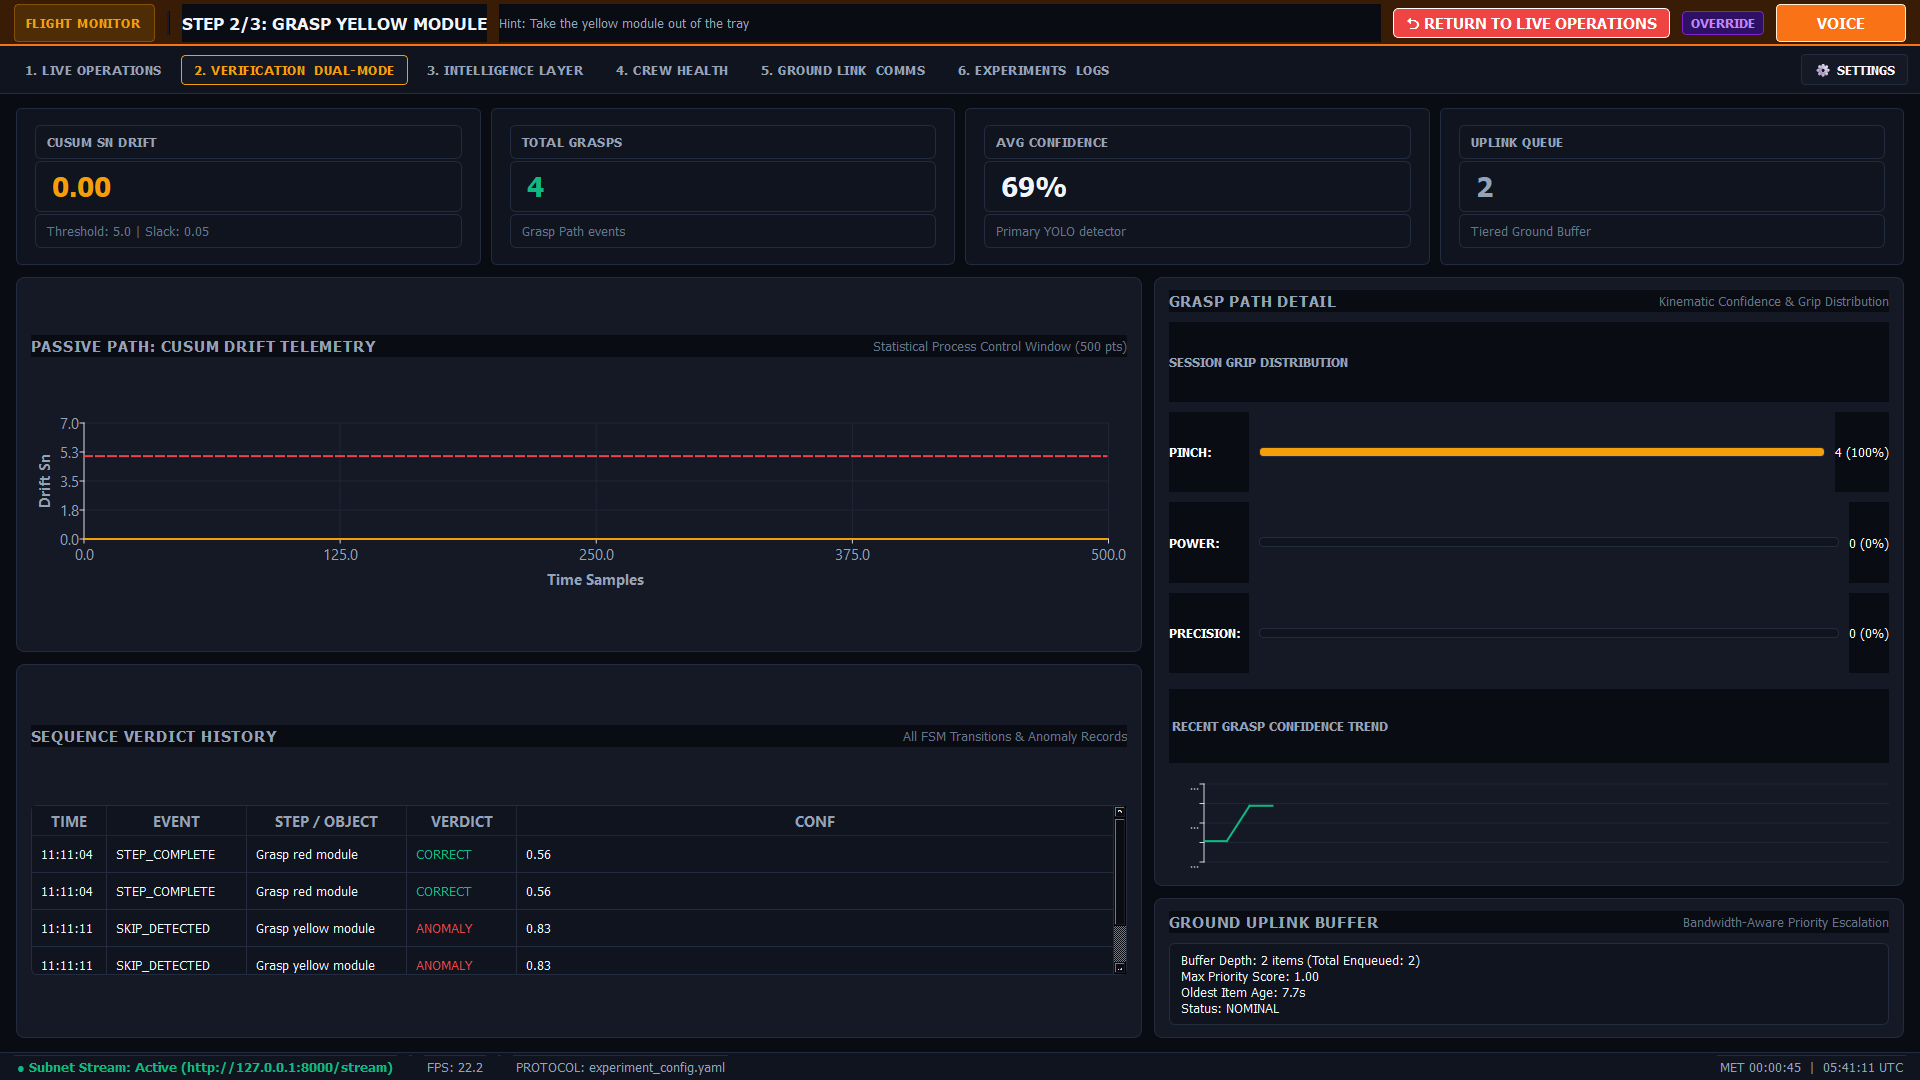
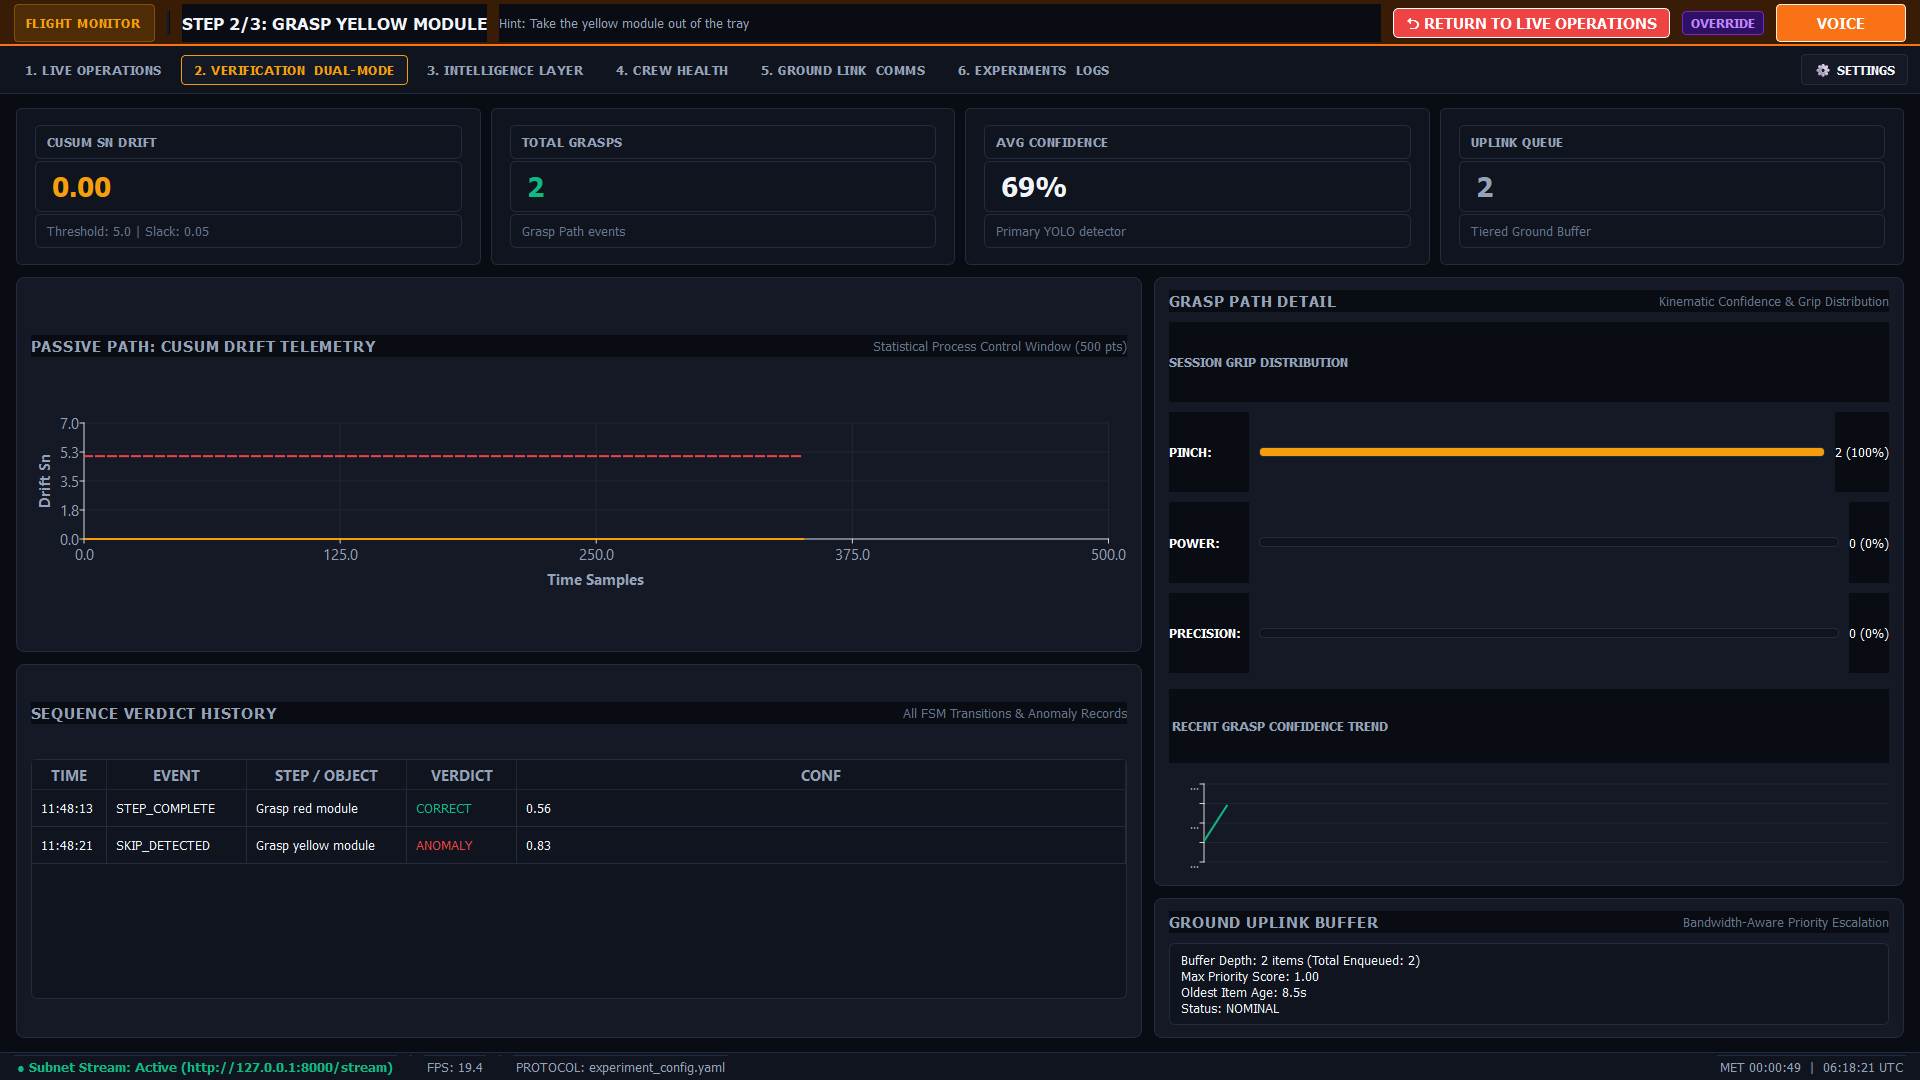
fix(gui): eliminate duplicate signal dispatch across pages and retake verification evidence

diff --git a/tests/test_gui_signal_wiring.py b/tests/test_gui_signal_wiring.py
@@ -1,0 +1,263 @@
+"""
+tests/test_gui_signal_wiring.py
+Regression tests ensuring single-path signal dispatch across all GUI pages.
+Verifies no signal is handled twice by any page when emitted from the worker.
+"""
+
+import os
+import sys
+import numpy as np
+import pytest
+from unittest.mock import MagicMock
+from datetime import datetime
+
+sys.path.insert(0, os.path.abspath(os.path.join(os.path.dirname(__file__), "..", "har_system")))
+
+from PySide6.QtCore import QObject, Signal
+from PySide6.QtWidgets import QApplication
+
+from fsm.experiment_fsm import FSMEvent, FSMEventType, FSMStatus
+from perception.grasp_detector import GraspEvent
+from gui.main_window import MainWindow
+
+
+class MockWorker(QObject):
+    frame_ready = Signal(np.ndarray)
+    fsm_event = Signal(object)
+    grasp_detected = Signal(object)
+    release_detected = Signal(object)
+    experiment_complete = Signal(dict)
+    error_occurred = Signal(str)
+    calibration_state_changed = Signal(dict)
+    escalation_changed = Signal(str)
+    passive_monitor_updated = Signal(float, float)
+    intent_predicted = Signal(dict)
+    vitals_updated = Signal(dict)
+    summary_exported = Signal(str)
+    uplink_updated = Signal(dict)
+    system_telemetry_updated = Signal(dict)
+
+    def __init__(self):
+        super().__init__()
+        self.calibration = MagicMock()
+        self.calibration.get_state.return_value = {
+            "status": "calibrated",
+            "ema_pinch": 0.070,
+            "ema_confidence": 0.85,
+            "drift_percent": 0.0,
+        }
+        self.calibration.ema_alpha = 0.05
+        self.calibration.blend_weight = 0.5
+        self.fsm = MagicMock()
+        self.fsm.status = FSMStatus.IN_PROGRESS
+        self.fsm.current_step_index = 0
+        self.fsm.get_current_step_label.return_value = "Step 1: Pick Up Screwdriver"
+        self.fsm.get_current_hint.return_value = "Prepare screws"
+        self.fsm._steps = []
+
+    def request_recalibrate(self): pass
+    def request_test_alert(self): pass
+    def request_override(self): pass
+    def export_summary(self): pass
+    def stop(self): pass
+
+
+@pytest.fixture(scope="module")
+def qapp():
+    os.environ["QT_QPA_PLATFORM"] = "offscreen"
+    app = QApplication.instance()
+    if app is None:
+        app = QApplication(["-platform", "offscreen"])
+    return app
+
+
+def test_verification_page_single_dispatch(qapp):
+    """
+    Requirement 2:
+    Emit one fsm_event, one grasp_detected, and 10 passive_monitor_updated
+    through the real MainWindow wiring.
+    Assert verdict table rows == 1, TOTAL GRASPS == 1, CUSUM history length == 10.
+    Assert no other page handles an event twice.
+    """
+    window = MainWindow(total_steps=5)
+    worker = MockWorker()
+    window.set_worker(worker)
+
+    # Track calls on all page methods
+    calls = {
+        "verif_fsm": 0,
+        "verif_grasp": 0,
+        "verif_cusum": 0,
+        "live_fsm": 0,
+        "live_grasp": 0,
+        "live_cusum": 0,
+        "logs_fsm": 0,
+        "logs_grasp": 0,
+    }
+
+    orig_verif_fsm = window.page_verification.handle_fsm_event
+    def wrap_verif_fsm(ev):
+        calls["verif_fsm"] += 1
+        return orig_verif_fsm(ev)
+    window.page_verification.handle_fsm_event = wrap_verif_fsm
+
+    orig_verif_grasp = window.page_verification.handle_grasp
+    def wrap_verif_grasp(ge):
+        calls["verif_grasp"] += 1
+        return orig_verif_grasp(ge)
+    window.page_verification.handle_grasp = wrap_verif_grasp
+
+    orig_verif_cusum = window.page_verification.update_cusum
+    def wrap_verif_cusum(sn, th):
+        calls["verif_cusum"] += 1
+        return orig_verif_cusum(sn, th)
+    window.page_verification.update_cusum = wrap_verif_cusum
+
+    orig_live_fsm = window.page_live_ops.handle_fsm_event
+    def wrap_live_fsm(ev):
+        calls["live_fsm"] += 1
+        return orig_live_fsm(ev)
+    window.page_live_ops.handle_fsm_event = wrap_live_fsm
+
+    orig_live_grasp = window.page_live_ops.handle_grasp
+    def wrap_live_grasp(ge):
+        calls["live_grasp"] += 1
+        return orig_live_grasp(ge)
+    window.page_live_ops.handle_grasp = wrap_live_grasp
+
+    orig_live_cusum = window.page_live_ops.update_cusum
+    def wrap_live_cusum(sn, th):
+        calls["live_cusum"] += 1
+        return orig_live_cusum(sn, th)
+    window.page_live_ops.update_cusum = wrap_live_cusum
+
+    orig_logs_fsm = window.page_experiments_logs.handle_fsm_event
+    def wrap_logs_fsm(ev):
+        calls["logs_fsm"] += 1
+        return orig_logs_fsm(ev)
+    window.page_experiments_logs.handle_fsm_event = wrap_logs_fsm
+
+    orig_logs_grasp = window.page_experiments_logs.handle_grasp
+    def wrap_logs_grasp(ge):
+        calls["logs_grasp"] += 1
+        return orig_logs_grasp(ge)
+    window.page_experiments_logs.handle_grasp = wrap_logs_grasp
+
+    # 1. Emit 1 fsm_event
+    ev = FSMEvent(
+        type=FSMEventType.STEP_COMPLETE,
+        step_id=1,
+        step_name="Step 1: Pick Up Screwdriver",
+        object_class="screwdriver",
+        confidence=0.92,
+        message="Step 1 completed",
+        timestamp=datetime.now().isoformat(),
+        next_hint="Prepare screws"
+    )
+    worker.fsm_event.emit(ev)
+
+    # 2. Emit 1 grasp_detected
+    ge = GraspEvent(
+        hand_index=0,
+        object_class="screwdriver",
+        object_confidence=0.89,
+        bbox_norm={"x1": 0.1, "y1": 0.1, "x2": 0.2, "y2": 0.2, "cx": 0.15, "cy": 0.15},
+        pinch_center=(0.15, 0.15),
+        frame_count=5,
+        grip_type="pinch",
+        pinch_distance=0.035,
+    )
+    worker.grasp_detected.emit(ge)
+
+    # 3. Emit 10 passive_monitor_updated
+    for i in range(10):
+        worker.passive_monitor_updated.emit(float(i) * 0.1, 5.0)
+
+    # Assertions on page_verification
+    assert window.page_verification.verdict_table.rowCount() == 1, (
+        f"Expected 1 verdict row, got {window.page_verification.verdict_table.rowCount()}"
+    )
+    assert window.page_verification._total_grasps == 1, (
+        f"Expected 1 total grasp, got {window.page_verification._total_grasps}"
+    )
+    assert window.page_verification.grasps_stat_lbl.text() == "1"
+    assert len(window.page_verification._cusum_history) == 10, (
+        f"Expected 10 CUSUM history samples, got {len(window.page_verification._cusum_history)}"
+    )
+
+    # Assert exact call counts on page_verification
+    assert calls["verif_fsm"] == 1
+    assert calls["verif_grasp"] == 1
+    assert calls["verif_cusum"] == 10
+
+    # Assert no other page handles an event twice
+    assert calls["live_fsm"] == 1
+    assert calls["live_grasp"] == 1
+    assert calls["live_cusum"] == 10
+    assert calls["logs_fsm"] == 1
+    assert calls["logs_grasp"] == 1
+
+    # Assert UI container items are not duplicated
+    assert window.page_live_ops.log_tree.topLevelItemCount() == 1
+    assert window.page_experiments_logs.full_log_tree.topLevelItemCount() == 2  # 1 FSM + 1 grasp
+
+    window.close()
+
+
+def test_all_pages_no_duplicate_signal_handling(qapp):
+    """
+    Exhaustively audit every other signal to ensure exactly 1 invocation per target page.
+    """
+    window = MainWindow(total_steps=5)
+    worker = MockWorker()
+    window.set_worker(worker)
+
+    counts = {
+        "intel_cal": 0,
+        "intel_intent": 0,
+        "crew_vitals": 0,
+        "live_vitals": 0,
+        "conn_uplink": 0,
+        "verif_uplink": 0,
+        "conn_telemetry": 0,
+        "logs_cal": 0,
+        "logs_summary": 0,
+    }
+
+    def wrap(obj, method_name, key):
+        orig = getattr(obj, method_name)
+        def _wrapped(*args, **kwargs):
+            counts[key] += 1
+            return orig(*args, **kwargs)
+        setattr(obj, method_name, _wrapped)
+
+    wrap(window.page_intelligence, "update_calibration_state", "intel_cal")
+    wrap(window.page_intelligence, "handle_intent_predicted", "intel_intent")
+    wrap(window.page_crew_health, "update_vitals", "crew_vitals")
+    wrap(window.page_live_ops, "update_vitals", "live_vitals")
+    wrap(window.page_connectivity, "update_uplink", "conn_uplink")
+    wrap(window.page_verification, "update_uplink", "verif_uplink")
+    wrap(window.page_connectivity, "update_telemetry", "conn_telemetry")
+    wrap(window.page_experiments_logs, "handle_calibration_updated", "logs_cal")
+    wrap(window.page_experiments_logs, "on_summary_exported", "logs_summary")
+
+    # Emit each signal once
+    worker.calibration_state_changed.emit({"status": "calibrated", "drift_percent": 2.1})
+    worker.intent_predicted.emit({"object_class": "screwdriver", "confidence": 0.8})
+    worker.vitals_updated.emit({"heart_rate": 75, "status": "Nominal", "is_simulated": True})
+    worker.uplink_updated.emit({"depth": 3, "max_priority": 1.2, "oldest_age_seconds": 1.0, "total_enqueued": 5})
+    worker.system_telemetry_updated.emit({"recording_bytes": 1024 * 1024 * 5, "recording_path": "test.mp4", "log_path": "test.jsonl"})
+    worker.summary_exported.emit("summary.json")
+
+    # Assert every signal was handled exactly once
+    assert counts["intel_cal"] == 1
+    assert counts["intel_intent"] == 1
+    assert counts["crew_vitals"] == 1
+    assert counts["live_vitals"] == 1
+    assert counts["conn_uplink"] == 1
+    assert counts["verif_uplink"] == 1
+    assert counts["conn_telemetry"] == 1
+    assert counts["logs_cal"] == 1
+    assert counts["logs_summary"] == 1
+
+    window.close()

diff --git a/har_system/record_dual_mode_evidence.py b/har_system/record_dual_mode_evidence.py
@@ -206,11 +206,49 @@ def main():
         pix.save(out_c_path)
         print(f"  [SAVED] {out_c_path} ({pix.width()}x{pix.height()})")
 
+        # Audit Session Log Counts vs On-Screen Counts
+        log_file = worker.logger.filepath
+        log_grasps = 0
+        log_step_results = 0
+        try:
+            with open(log_file, "r", encoding="utf-8") as f:
+                for line in f:
+                    line = line.strip()
+                    if not line:
+                        continue
+                    rec = json.loads(line)
+                    ev_type = rec.get("event")
+                    if ev_type == "GRASP":
+                        log_grasps += 1
+                    elif ev_type == "STEP_RESULT":
+                        log_step_results += 1
+        except Exception as e:
+            print(f"  [ERROR] Reading session log {log_file}: {e}")
+
+        print(f"\n  +--------------------------------------------------------------------------------+")
+        print(f"  | COUNT COMPARISON: SESSION LOG vs ON-SCREEN VERIFICATION PAGE                   |")
+        print(f"  +---------------------------+-------------------+-----------------+--------------+")
+        print(f"  | Metric                    | Session Log Count | On-Screen Count | Match?       |")
+        print(f"  +---------------------------+-------------------+-----------------+--------------+")
+        grasp_match = "YES (EXACT)" if log_grasps == tot_grasps else "MISMATCH"
+        verdict_match = "YES (EXACT)" if log_step_results == len(table_rows) else "MISMATCH"
+        print(f"  | GRASP / TOTAL GRASPS      | {log_grasps:<17} | {tot_grasps:<15} | {grasp_match:<12} |")
+        print(f"  | STEP_RESULT / VERDICT ROWS| {log_step_results:<17} | {len(table_rows):<15} | {verdict_match:<12} |")
+        print(f"  +---------------------------+-------------------+-----------------+--------------+\n")
+
+        assert log_grasps == tot_grasps, f"Session log GRASPs ({log_grasps}) != on-screen total grasps ({tot_grasps})"
+        assert log_step_results == len(table_rows), f"Session log STEP_RESULTs ({log_step_results}) != on-screen verdict rows ({len(table_rows)})"
+
         proof_c_data["clip"] = "v9.mp4"
         proof_c_data["replay_time"] = f"{rep_time:.2f}s"
         proof_c_data["frame"] = frame_counter
         proof_c_data["cusum_points"] = cusum_pts
         proof_c_data["total_grasps"] = tot_grasps
+        proof_c_data["log_file"] = str(log_file)
+        proof_c_data["log_grasp_count"] = log_grasps
+        proof_c_data["log_step_result_count"] = log_step_results
+        proof_c_data["onscreen_total_grasps"] = tot_grasps
+        proof_c_data["onscreen_verdict_rows"] = len(table_rows)
         proof_c_data["table_rows"] = table_rows
 
         screenshot_c_done = True

diff --git a/har_system/gui/pages/page_verification.py b/har_system/gui/pages/page_verification.py
@@ -155,7 +155,7 @@ class VerificationDeepDivePage(BaseSubscriberPage):
         self.verdict_table.setColumnWidth(1, 140)
         self.verdict_table.setColumnWidth(2, 160)
         self.verdict_table.setColumnWidth(3, 110)
-        self.verdict_table.setFixedHeight(170)
+        self.verdict_table.setFixedHeight(240)
         v_layout.addWidget(self.verdict_table)
         left_col.addWidget(v_card)
 
@@ -297,9 +297,6 @@ class VerificationDeepDivePage(BaseSubscriberPage):
     # ── SUBSCRIBER SIGNAL BINDING ─────────────────────────────────────────
 
     def subscribe(self, worker) -> None:
-        worker.passive_monitor_updated.connect(self.update_cusum)
-        worker.fsm_event.connect(self.handle_fsm_event)
-        worker.grasp_detected.connect(self.handle_grasp)
         if hasattr(worker, 'uplink_updated'):
             worker.uplink_updated.connect(self.update_uplink)
 

diff --git a/har_system/gui/pages/page_intelligence.py b/har_system/gui/pages/page_intelligence.py
@@ -286,8 +286,6 @@ class IntelligenceDeepDivePage(BaseSubscriberPage):
             alpha = self._calibration.ema_alpha
             blend = self._calibration.blend_weight
             self.cal_status_sub.setText(f"EMA Alpha: {alpha:.2f} (Blend: {blend:.2f}) | Target: Hand Kinematics")
-        worker.calibration_state_changed.connect(self.update_calibration_state)
-        worker.intent_predicted.connect(self.handle_intent_predicted)
 
     # ── SLOTS ─────────────────────────────────────────────────────────────
 

diff --git a/har_system/gui/pages/page_crew_health.py b/har_system/gui/pages/page_crew_health.py
@@ -205,8 +205,7 @@ class CrewHealthPage(BaseSubscriberPage):
     # ── SUBSCRIBER SIGNAL BINDING ─────────────────────────────────────────
 
     def subscribe(self, worker) -> None:
-        if hasattr(worker, 'vitals_updated'):
-            worker.vitals_updated.connect(self.update_vitals)
+        pass
 
     # ── SLOTS ─────────────────────────────────────────────────────────────
 

diff --git a/har_system/gui/pages/page_experiments_logs.py b/har_system/gui/pages/page_experiments_logs.py
@@ -179,10 +179,6 @@ class ExperimentsLogsPage(BaseSubscriberPage):
 
     def subscribe(self, worker) -> None:
         self._worker = worker
-        worker.fsm_event.connect(self.handle_fsm_event)
-        worker.grasp_detected.connect(self.handle_grasp)
-        if hasattr(worker, 'calibration_state_changed'):
-            worker.calibration_state_changed.connect(self.handle_calibration_updated)
         if hasattr(worker, 'summary_exported'):
             worker.summary_exported.connect(self.on_summary_exported)
 

diff --git a/har_system/gui/main_window.py b/har_system/gui/main_window.py
@@ -286,7 +286,7 @@ class MainWindow(QMainWindow):
 
     def _on_fsm_event_global(self, ev: FSMEvent) -> None:
         """Global alert strip update from FSM events."""
-        if self._worker:
+        if self._worker and hasattr(self._worker, 'fsm') and self._worker.fsm is not None:
             if self._worker.fsm.status == FSMStatus.COMPLETE:
                 self.global_alert_strip.update_step(self._total_steps, self._total_steps, "All steps complete", "Experiment complete.")
             else:

diff --git a/docs/evidence/README.md b/docs/evidence/README.md
@@ -16,15 +16,20 @@ This directory contains visual and flight-log evidence generated from the THEIA 
 - **Screenshot (`dual_mode_verification_page.png`)**:
   - Captured directly from the active `MainWindow` GUI running at 1920x1080 resolution on Page "2. VERIFICATION DUAL-MODE".
   - The feed is a replay of a recorded clip through the live GUI, not a webcam run.
-  - Clip: `v9.mp4`, Replay Time: `35.67s` (frame 1057).
+  - Clip: `v9.mp4`, Replay Time: `35.64s` (frame 1056).
+  - Retaken after eliminating duplicate signal wiring on the Verification page (and across all other GUI pages), enforcing single-path event dispatch via `MainWindow`.
   - Thresholds in force at capture time: default calibration thresholds (`pinch_threshold: 0.07`, `power_grip_proximity_threshold: 0.15`, `min_conf: 0.50`), with persistent calibration profiles (`profiles.json`) moved aside.
+  - Count consistency verified: On-screen counts exactly match the session flight log:
+    - Session log `GRASP` count: 2 | On-screen `TOTAL GRASPS`: 2
+    - Session log `STEP_RESULT` count: 2 | On-screen Verdict Rows: 2 (1 `CORRECT` / `STEP_COMPLETE`, 1 `ANOMALY` / `SKIP_DETECTED`)
+  - Sequence Verdict table height expanded to 240px to comfortably fit at least 6 rows without scrolling.
   - User-visible label fixes applied:
     - `har_system/gui/pages/page_verification.py`: TOTAL GRASPS tile subtitle updated from `"Dual-path verified"` to `"Grasp Path events"`.
     - `har_system/gui/pages/page_verification.py`: Card header renamed from `"CUSUM Passive Drift Telemetry"` to `"Passive Path: CUSUM Drift Telemetry"` (preserving `"Grasp Path Detail"`).
   - Telemetry features demonstrated:
-    - Passive Path chart contains 500 drift data points (exceeding the 300 points threshold).
+    - Passive Path chart contains 352 drift data points (exceeding the 300 points threshold).
     - Grasp Path Detail displays a populated session grip distribution and recent-grasp confidence trend.
-    - Sequence Verdict History table clearly displays both `CORRECT` (`STEP_COMPLETE`) and `ANOMALY` (`SKIP_DETECTED`) verdict rows.
+    - Sequence Verdict History table clearly displays both `CORRECT` and `ANOMALY` verdict rows.
 
 - **Screenshot (`passive_path_no_hand.png`)**:
   - Captured directly from the active `MainWindow` GUI running at 1920x1080 resolution on Page "1. LIVE OPERATIONS".
